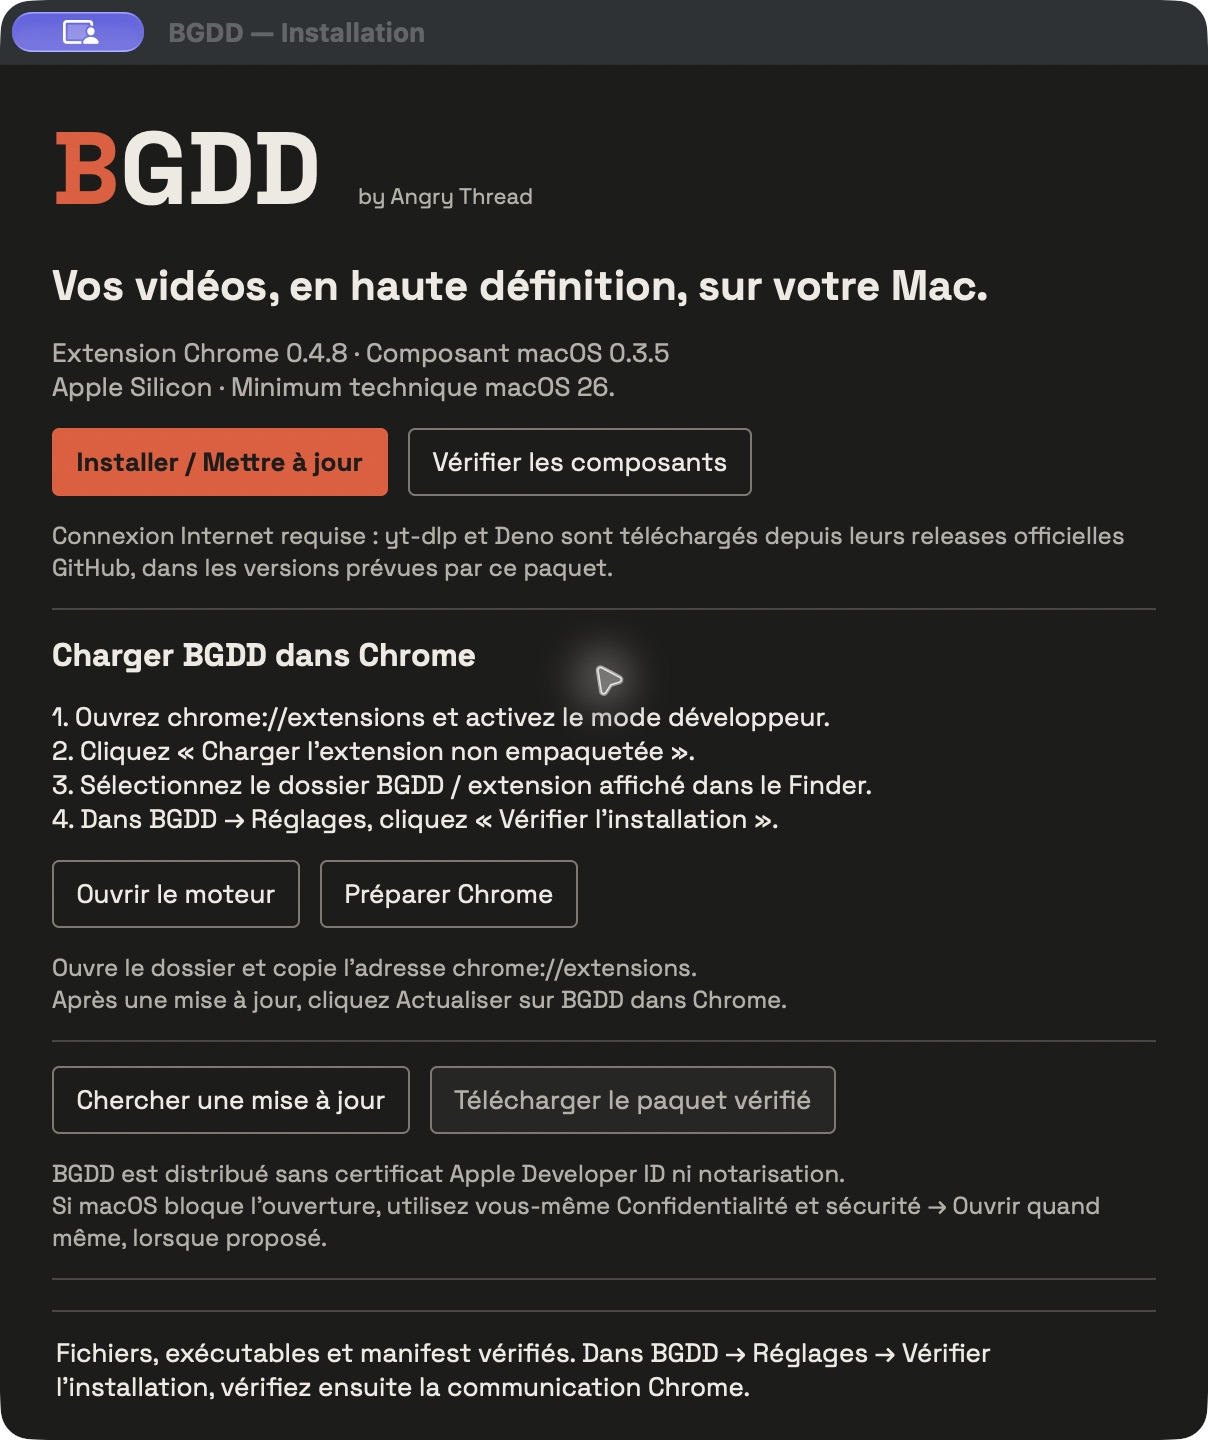
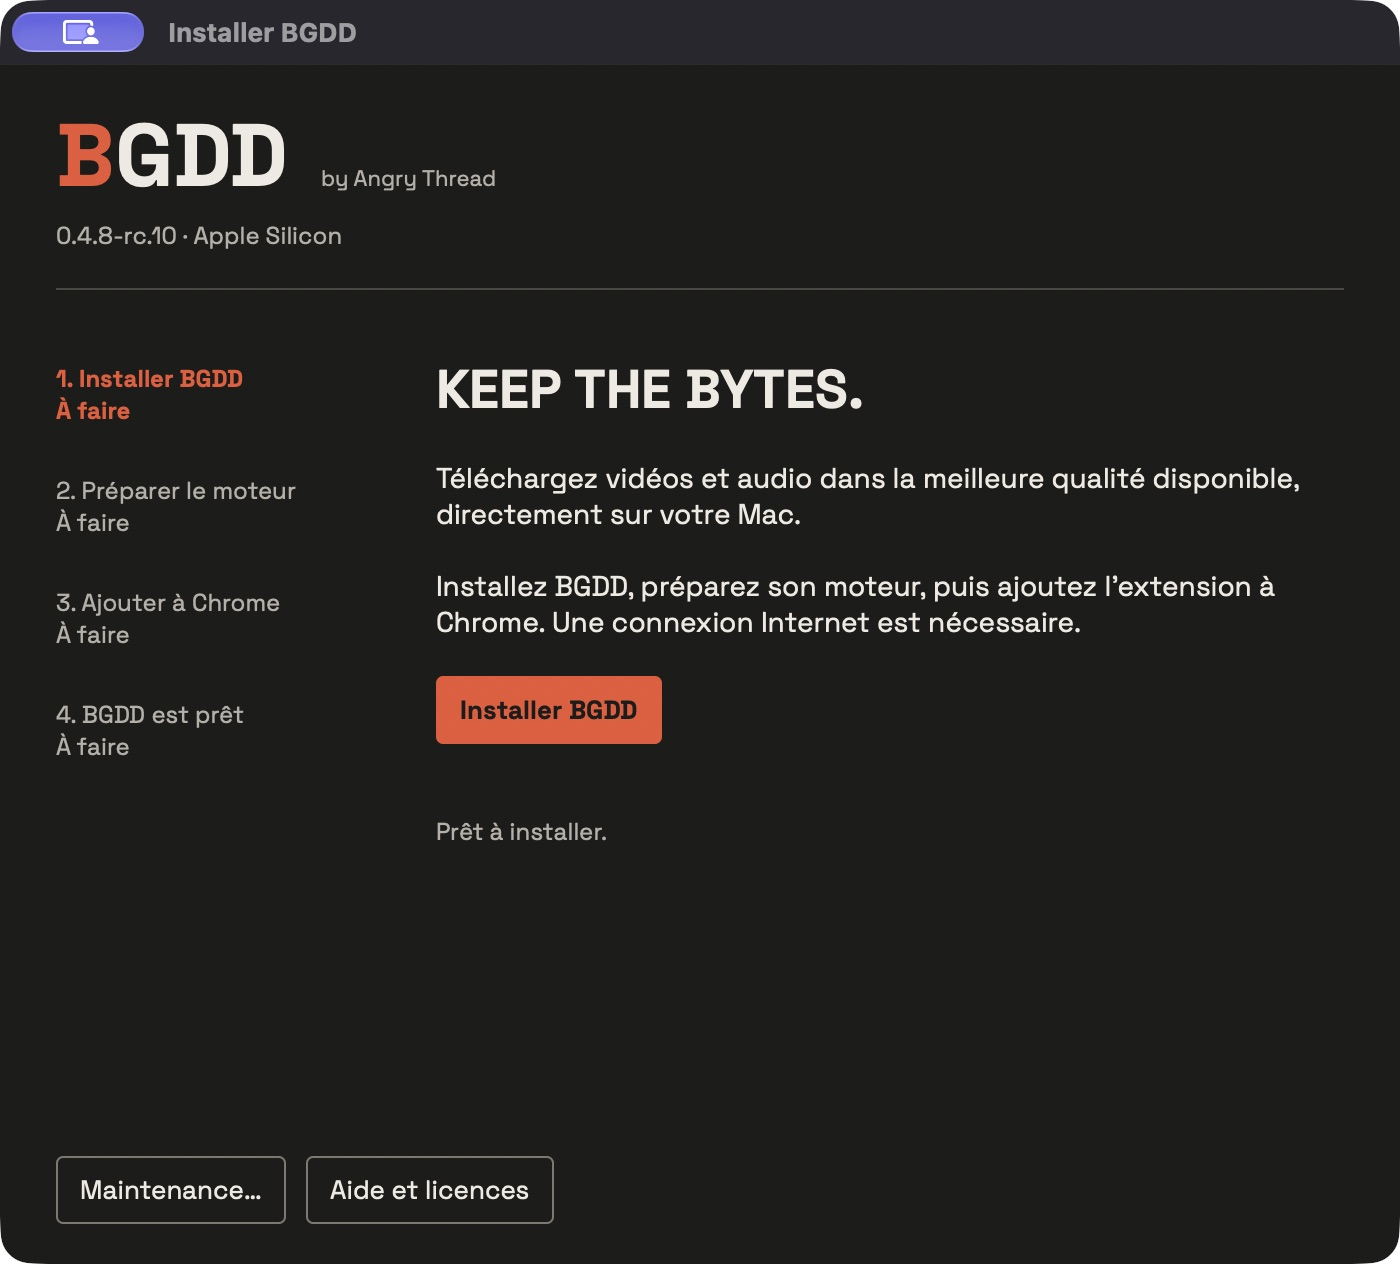
Present KEEP THE BYTES and RC.10 downloads [skip ci]

diff --git a/README.md b/README.md
@@ -1,15 +1,15 @@
 <p align="center"><picture><source media="(prefers-color-scheme: dark)" srcset="assets/wordmark-dark.svg"><img src="assets/wordmark-light.svg" width="220" alt="BGDD"></picture></p>
-<p align="center"><strong>Vos vidéos, en haute définition, sur votre Mac.</strong><br>by Angry Thread</p>
+<p align="center"><strong>KEEP THE BYTES.</strong><br>Téléchargez vidéos et audio dans la meilleure qualité disponible, directement sur votre Mac.<br>by Angry Thread</p>
 <p align="center">Français · <a href="README.en.md">English</a></p>
 
 BGDD est un logiciel **gratuit et propriétaire** qui associe une extension Chrome à un moteur local macOS. Choisissez une publication, un format et un dossier : le téléchargement et le traitement se font sur votre Mac. Aucun compte BGDD, abonnement, serveur de téléchargement ou télémétrie.
 
-**Préversion 0.4.8-rc.9 — Apple Silicon et Intel.** [Notes de version](https://github.com/enrimerveille/BGDD/releases/tag/v0.4.8-rc.9).
+**Préversion 0.4.8-rc.10 — Apple Silicon et Intel.** [Notes de version](https://github.com/enrimerveille/BGDD/releases/tag/v0.4.8-rc.10).
 
 | Votre Mac | Télécharger |
 |---|---|
-| Apple Silicon (ARM64), macOS 27 | [DMG Apple Silicon](https://github.com/enrimerveille/BGDD/releases/download/v0.4.8-rc.9/BGDD-macOS-arm64.dmg) |
-| Intel (x86_64), macOS 26 | [DMG Intel](https://github.com/enrimerveille/BGDD/releases/download/v0.4.8-rc.9/BGDD-macOS-x86_64.dmg) |
+| Apple Silicon (ARM64), macOS 27 | [DMG Apple Silicon](https://github.com/enrimerveille/BGDD/releases/download/v0.4.8-rc.10/BGDD-macOS-arm64.dmg) |
+| Intel (x86_64), macOS 26 | [DMG Intel](https://github.com/enrimerveille/BGDD/releases/download/v0.4.8-rc.10/BGDD-macOS-x86_64.dmg) |
 
 <p align="center"><img src="assets/popup-light.png" width="320" alt="BGDD clair"><img src="assets/popup-dark.png" width="320" alt="BGDD sombre"></p>
 

diff --git a/README.en.md b/README.en.md
@@ -1,15 +1,15 @@
 <p align="center"><picture><source media="(prefers-color-scheme: dark)" srcset="assets/wordmark-dark.svg"><img src="assets/wordmark-light.svg" width="220" alt="BGDD"></picture></p>
-<p align="center"><strong>Your videos, in high definition, on your Mac.</strong><br>by Angry Thread</p>
+<p align="center"><strong>KEEP THE BYTES.</strong><br>Download videos and audio at the best available quality, straight to your Mac.<br>by Angry Thread</p>
 <p align="center"><a href="README.md">Français</a> · English</p>
 
 BGDD is **free proprietary software** pairing a Chrome extension with a local macOS engine. Choose a publication, format and folder: downloading and processing stay on your Mac. No BGDD account, subscription, download server or telemetry.
 
-**Prerelease 0.4.8-rc.9 — Apple Silicon and Intel.** [Release notes](https://github.com/enrimerveille/BGDD/releases/tag/v0.4.8-rc.9).
+**Prerelease 0.4.8-rc.10 — Apple Silicon and Intel.** [Release notes](https://github.com/enrimerveille/BGDD/releases/tag/v0.4.8-rc.10).
 
 | Your Mac | Download |
 |---|---|
-| Apple Silicon (ARM64), macOS 27 | [DMG Apple Silicon](https://github.com/enrimerveille/BGDD/releases/download/v0.4.8-rc.9/BGDD-macOS-arm64.dmg) |
-| Intel (x86_64), macOS 26 | [DMG Intel](https://github.com/enrimerveille/BGDD/releases/download/v0.4.8-rc.9/BGDD-macOS-x86_64.dmg) |
+| Apple Silicon (ARM64), macOS 27 | [DMG Apple Silicon](https://github.com/enrimerveille/BGDD/releases/download/v0.4.8-rc.10/BGDD-macOS-arm64.dmg) |
+| Intel (x86_64), macOS 26 | [DMG Intel](https://github.com/enrimerveille/BGDD/releases/download/v0.4.8-rc.10/BGDD-macOS-x86_64.dmg) |
 
 <p align="center"><img src="assets/popup-light.png" width="320" alt="BGDD light"><img src="assets/popup-dark.png" width="320" alt="BGDD dark"></p>
 

diff --git a/docs/DISTRIBUTION-RELEASE.md b/docs/DISTRIBUTION-RELEASE.md
@@ -1,10 +1,9 @@
-# BGDD 0.4.8-rc.9 — Mises à jour
+# BGDD — KEEP THE BYTES.
 
-- Corrige l’ouverture des mises à jour sur macOS 27.
-- La recherche de mises à jour accompagne le passage à la nouvelle adresse officielle de BGDD.
+- Nouvelle présentation : téléchargez vidéos et audio dans la meilleure qualité disponible, directement sur votre Mac.
+- Popup Chrome plus stable : largeur identique dans les réglages et défilement adapté aux préférences macOS.
 - Disponible pour Apple Silicon sous macOS 27 et Intel sous macOS 26.
-- La mise à jour conserve l’extension Chrome, vos réglages et votre historique.
 
-[Télécharger pour Apple Silicon](https://github.com/enrimerveille/BGDD/releases/download/v0.4.8-rc.9/BGDD-macOS-arm64.dmg) · [Télécharger pour Intel](https://github.com/enrimerveille/BGDD/releases/download/v0.4.8-rc.9/BGDD-macOS-x86_64.dmg) · [Empreintes et sources tierces](https://github.com/enrimerveille/BGDD/releases/tag/v0.4.8-rc.9)
+[Apple Silicon](https://github.com/enrimerveille/BGDD/releases/download/v0.4.8-rc.10/BGDD-macOS-arm64.dmg) · [Intel](https://github.com/enrimerveille/BGDD/releases/download/v0.4.8-rc.10/BGDD-macOS-x86_64.dmg)
 
-**English:** Fixes opening updates on macOS 27. Update checking follows BGDD’s new official address. Available for Apple Silicon on macOS 27 and Intel on macOS 26. Your existing Chrome extension, settings and history are retained.
+**English:** KEEP THE BYTES. Download videos and audio at the best available quality, straight to your Mac. A steadier Chrome popup keeps its width in Settings and follows macOS scrolling preferences. Available for Apple Silicon on macOS 27 and Intel on macOS 26.

diff --git a/docs/DISTRIBUTION-DEPENDENCIES.md b/docs/DISTRIBUTION-DEPENDENCIES.md
@@ -13,6 +13,6 @@ BGDD est gratuit et propriétaire pour son code original, copyright © 2026 Angr
 
 Le bundle yt-dlp conserve sa licence GPL-3.0-or-later ; Deno et ses dépendances conservent leurs licences propres. Leurs binaires et archives ne sont pas fournis dans le DMG BGDD.
 
-Les métadonnées de la [release](https://github.com/enrimerveille/BGDD/releases/tag/v0.4.8-rc.9), `VERSIONS-arm64.json` et `VERSIONS-x86_64.json`, décrivent les composants de chaque variante. `SHA256SUMS` contient les empreintes des fichiers téléchargeables. L’[inventaire des dépendances](../licenses/DEPENDENCIES-rc2.json) conserve les références des matériaux amont ; ses relevés de construction historiques ne remplacent pas les métadonnées de la release choisie.
+Les métadonnées de la [release](https://github.com/enrimerveille/BGDD/releases/tag/v0.4.8-rc.10), `VERSIONS-arm64.json` et `VERSIONS-x86_64.json`, décrivent les composants de chaque variante. `SHA256SUMS` contient les empreintes des fichiers téléchargeables. L’[inventaire des dépendances](../licenses/DEPENDENCIES-rc2.json) conserve les références des matériaux amont ; ses relevés de construction historiques ne remplacent pas les métadonnées de la release choisie.
 
 [Licences et sources](DISTRIBUTION-LICENSES.md) · [Frontières entre programmes](DISTRIBUTION-BOUNDARIES.md) · [Conditions BGDD](../CONDITIONS.md)

diff --git a/docs/DISTRIBUTION-BOUNDARIES.md b/docs/DISTRIBUTION-BOUNDARIES.md
@@ -4,7 +4,7 @@ BGDD est gratuit et propriétaire pour son code original. Les composants tiers c
 
 ## Ce que contient la distribution
 
-Le DMG fournit BGDD, les codecs FFmpeg/ffprobe avec x264 et LAME, et la police Space Grotesk. Les sources exactes des codecs, leurs licences et les scripts de construction et de remplacement sont disponibles dans les kits tiers de la [release](https://github.com/enrimerveille/BGDD/releases/tag/v0.4.8-rc.9).
+Le DMG fournit BGDD, les codecs FFmpeg/ffprobe avec x264 et LAME, et la police Space Grotesk. Les sources exactes des codecs, leurs licences et les scripts de construction et de remplacement sont disponibles dans les kits tiers de la [release](https://github.com/enrimerveille/BGDD/releases/tag/v0.4.8-rc.10).
 
 yt-dlp, son runtime Python/EJS et Deno sont téléchargés directement depuis leurs releases officielles pendant l’installation. Leurs binaires et archives ne sont pas hébergés dans le DMG BGDD. Ce mode de fourniture ne modifie pas leurs licences.
 

diff --git a/docs/DISTRIBUTION-INSTALL.md b/docs/DISTRIBUTION-INSTALL.md
@@ -1,6 +1,6 @@
 # Installer et utiliser BGDD
 
-BGDD 0.4.8-rc.9 est disponible pour **Apple Silicon (ARM64) sous macOS 27** et **Intel (x86_64) sous macOS 26**. [Choisir votre DMG](https://github.com/enrimerveille/BGDD/releases/tag/v0.4.8-rc.9).
+BGDD 0.4.8-rc.10 est disponible pour **Apple Silicon (ARM64) sous macOS 27** et **Intel (x86_64) sous macOS 26**. [Choisir votre DMG](https://github.com/enrimerveille/BGDD/releases/tag/v0.4.8-rc.10).
 
 Une connexion Internet et Google Chrome sont nécessaires. Aucun Terminal, Homebrew, Python ou Node.js à installer. BGDD est distribué **sans certificat Developer ID ni notarisation Apple** : consultez le [guide Gatekeeper](DISTRIBUTION-GATEKEEPER.md) si macOS bloque l’ouverture.
 

diff --git a/docs/DISTRIBUTION-LICENSES.md b/docs/DISTRIBUTION-LICENSES.md
@@ -1,4 +1,4 @@
-# Licences et sources de BGDD 0.4.8-rc.9
+# Licences et sources de BGDD 0.4.8-rc.10
 
 27 octobre 2026 · code original gratuit et propriétaire, **Angry Thread**. Le JavaScript compilé nécessaire à l'extension est distribué ; cela n'ouvre pas les sources originales. Les restrictions BGDD excluent expressément les droits accordés par les licences tierces. [Conditions](../CONDITIONS.md).
 
